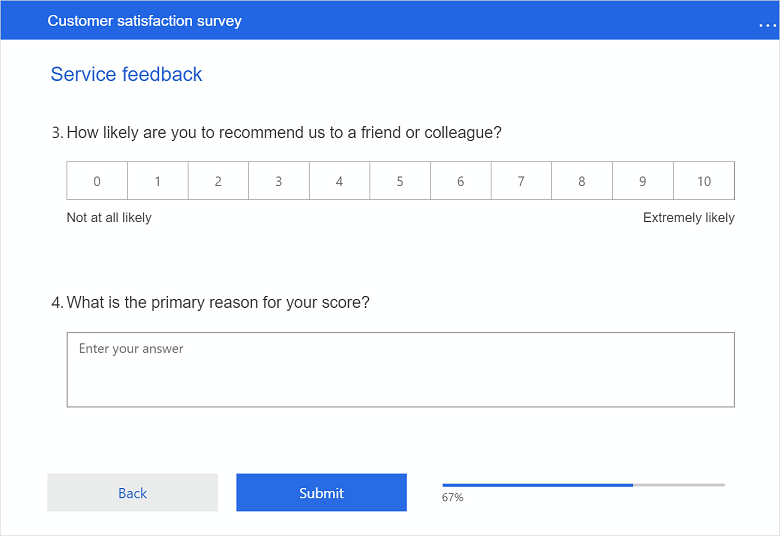
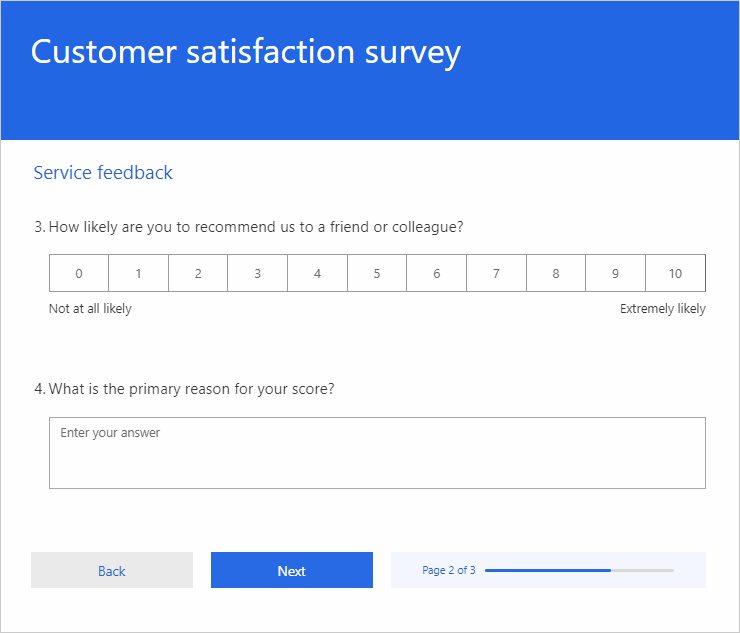
progress bar update
Category: Content-Improvement or New-Content or Bug/Issue

Workitem: https://dev.azure.com/dynamicscrm/OneCRM/_workitems/edit/2767142

Description: Progress bar display logic update

diff --git a/cv-docs/survey-formatting.md b/cv-docs/survey-formatting.md
@@ -1,7 +1,7 @@
 ---
 title: "Add formatting to a survey | MicrosoftDocs"
 description: "This topic explains how to add formatting to a survey and control the general look and feel of your survey."
-ms.date: 07/29/2020
+ms.date: 06/24/2022
 ms.topic: article
 author: sbmjais
 ms.author: shjais
@@ -28,7 +28,7 @@ Formatting controls the general look and feel of your survey. This includes show
 
 ## Progress bar
 
-A progress bar shows your respondents the percentage of pages that they've navigated to or viewed so far. It gives them an idea of how far they've come and how far they have to go. The progress bar takes into account all pages in the survey. If pages have been skipped due to a branching rule, the progress bar shows the adjusted completion percentage. The progress bar is displayed only if there are two or more pages in the survey.
+A progress bar shows your respondents the number of pages that they've navigated to or viewed so far out of the total number of pages in a survey. It gives them an idea of how far they've come and how far they have to go. The progress bar takes into account all pages in the survey. If pages have been skipped due to a branching rule, the progress bar shows the skipped pages as complete. The progress bar is displayed only if there are two or more pages in the survey.
 
 By default, this setting is turned on for multiple-page surveys and the progress bar is displayed. For a single-page survey, this setting is turned off.
 
